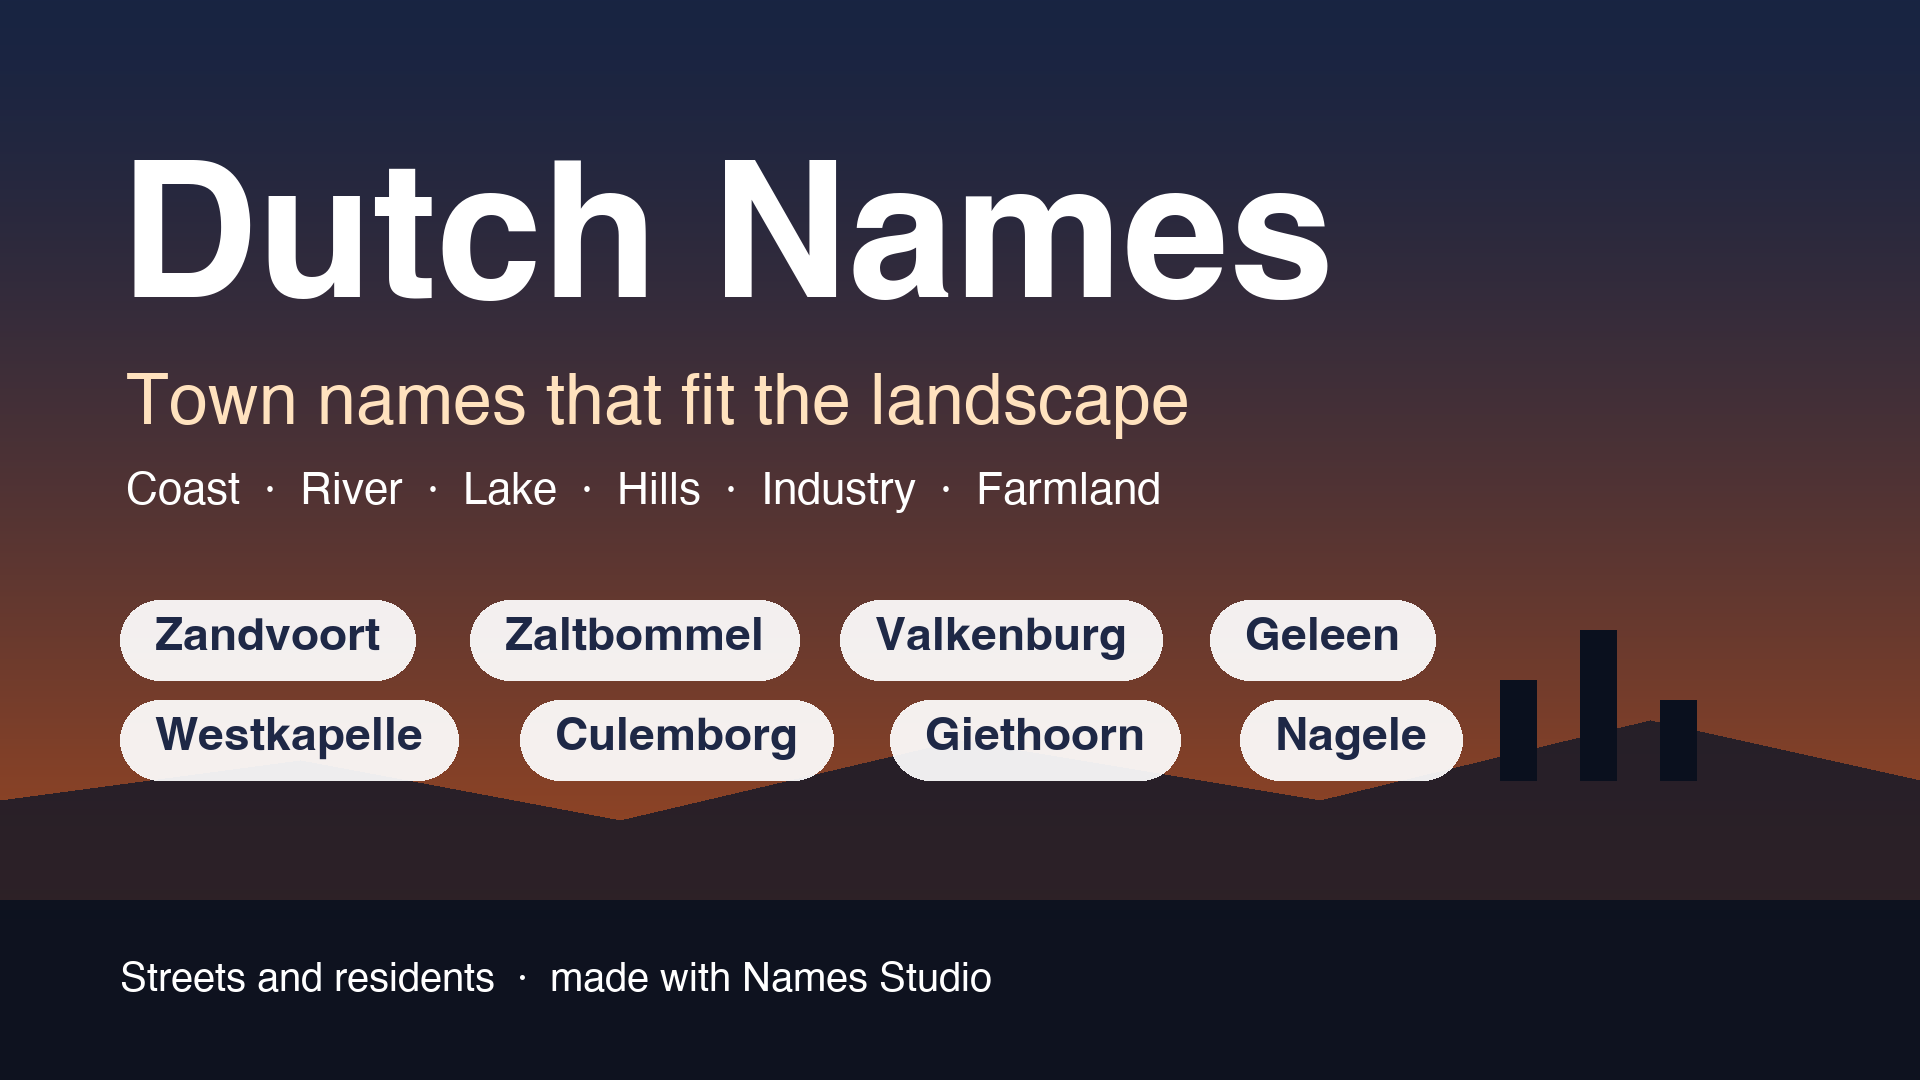
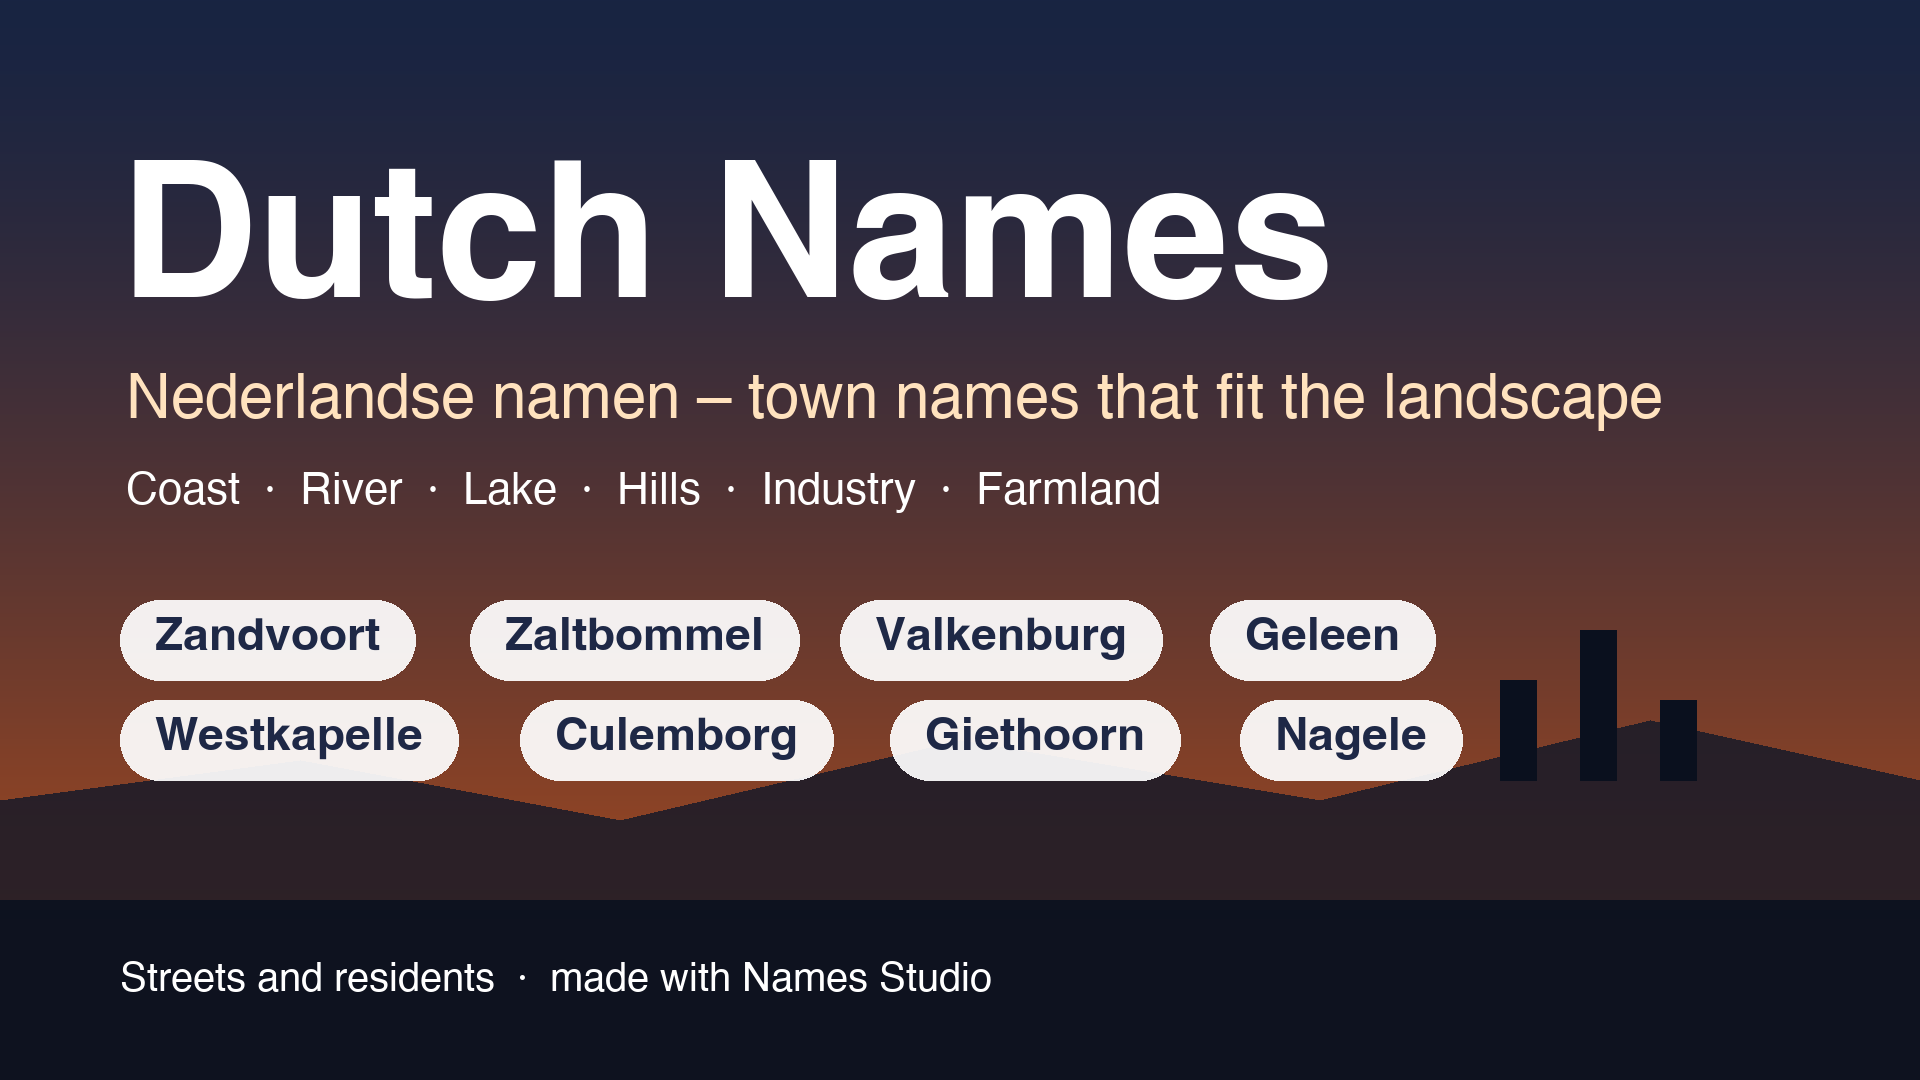
Mod name 'Dutch names / Nederlandse namen', add 'Names' tag, bilingual cover

Changed region(s): [[0.0625, 0.3361, 0.875, 0.3972]]

diff --git a/app/app.js b/app/app.js
@@ -18,6 +18,8 @@
 		// migrate Dutch default labels saved by an earlier (Dutch) version of the app
 		const OLD = { kust: 'Kust (zee)', rivier: 'Rivier', meer: 'Meer', polder: 'Polder', heuvel: 'Heuvel', bos: 'Bos & heide', industrie: 'Industrie', mijn: 'Mijn & groeve', hout: 'Hout & papier', landbouw: 'Landbouw', stad: 'Grote steden' };
 		const OLDMETA = { name: 'Nederlandse namen', setName: 'Nederlands (locatiegebonden)', summary: 'Nederlandse stads-, straat- en persoonsnamen, gekozen op locatie.', description: 'Nederlandse plaats-, straat- en persoonsnamen. Steden krijgen bij een nieuw spel een naam die past bij hun locatie.' };
+		if (s.meta.name === 'Dutch names') s.meta.name = base.meta.name; // earlier default
+		if (!saved.meta || saved.meta.tags === undefined) s.meta.tags = base.meta.tags;
 		Object.keys(OLDMETA).forEach((k) => { if (s.meta[k] === OLDMETA[k]) s.meta[k] = base.meta[k]; });
 		(saved.themes || []).forEach((t) => { const b = base.themes.find((x) => x.id === t.id); if (b && OLD[t.id] === t.label) { t.label = b.label; t.desc = b.desc; } });
 		s.themes = (saved.themes || base.themes).map((t) => Object.assign({ enabled: true, mode: 'both', prefixChance: 0.25, curated: [], stems: [], suffixes: [], desc: '' }, t));
@@ -425,6 +427,7 @@
 					field('Mod name (max. 32 characters)', text(m, 'name', { maxlength: 60, after: refresh })),
 					field('Name of the name set in the game', text(m, 'setName')),
 					field('Author', text(m, 'author')),
+					field('Tags (comma-separated)', text(m, 'tags'), 'Written to modinfo.json. On the Mod Hub you also tick the official mod.io tags under My Mods.'),
 					field('Website URL (shown in the mod\'s info)', text(m, 'url'), 'Optional. Where players can find this tool or download page.'),
 					field('Summary (max. 100 characters)', text(m, 'summary', { after: refresh })),
 					field('Description', h('textarea', { rows: 3, oninput: (e) => { m.description = e.target.value; save(); } }, m.description)),

diff --git a/app/core.js b/app/core.js
@@ -35,9 +35,10 @@
 		return {
 			meta: {
 				modId: 'dutch_names_1',
-				name: 'Dutch names',
+				name: 'Dutch names / Nederlandse namen',
 				setName: 'Dutch (location-based)',
 				author: '',
+				tags: 'Script Mod, Names',
 				url: '',
 				summary: 'Dutch town, street and person names, chosen by location.',
 				coverTagline: 'Town names that fit the landscape',
@@ -699,7 +700,7 @@ return mod
 		files.push({ path: '_metadata/modinfo.json', text: JSON.stringify({
 			authors: [{ name: cfg.meta.author || 'Unknown', role: 'CREATOR' }],
 			description: cfg.meta.description, name: cfg.meta.name, summary: cfg.meta.summary,
-			tags: ['Script Mod'], url: cfg.meta.url || '',
+			tags: (cfg.meta.tags || '').split(',').map((x) => x.trim()).filter(Boolean), url: cfg.meta.url || '',
 		}, null, 4) + '\n' });
 		const ref = (fn) => ({ fileName: id + '::/names/dutch.script@' + fn, params: { modId: id } });
 		files.push({ path: 'content/names/dutch_nl.names.lua', text:

diff --git a/tools/make_cover.py b/tools/make_cover.py
@@ -24,7 +24,7 @@ for x, h in [(1500, 140), (1580, 190), (1660, 120)]:
     d.rectangle([x, 760 - h + 60, x + 36, 780], fill=(10, 16, 30, 255))
 
 d.text((120, 150), "Dutch Names", font=font(190, True), fill=(255, 255, 255))
-d.text((126, 370), "Town names that fit the landscape", font=font(70), fill=(255, 226, 190))
+d.text((126, 370), "Nederlandse namen \u2013 town names that fit the landscape", font=font(62), fill=(255, 226, 190))
 d.text((126, 470), "Coast  ·  River  ·  Lake  ·  Hills  ·  Industry  ·  Farmland", font=font(44), fill=(255, 255, 255, 210))
 
 chips = [("Zandvoort", 120, 600), ("Zaltbommel", 470, 600), ("Valkenburg", 840, 600), ("Geleen", 1210, 600),
